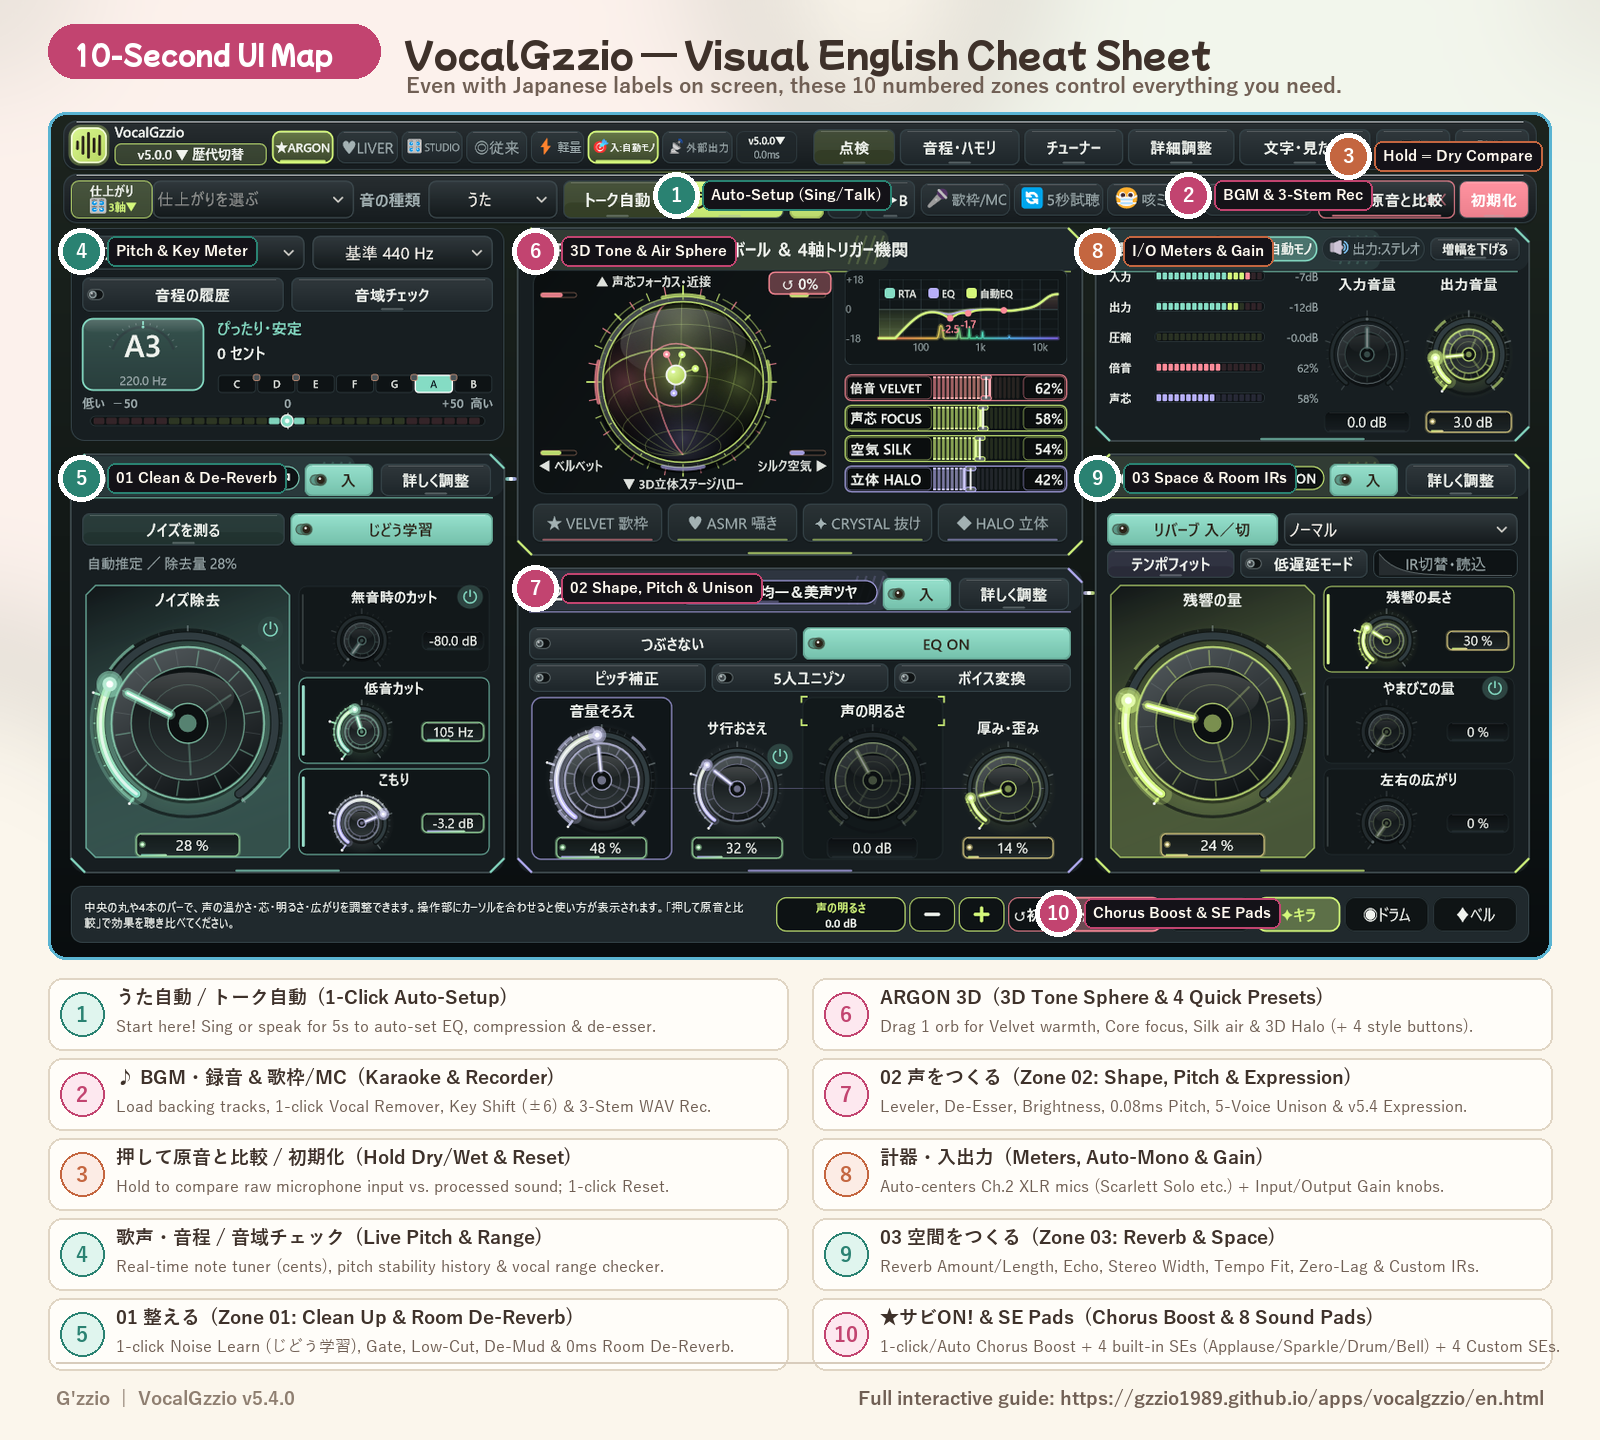
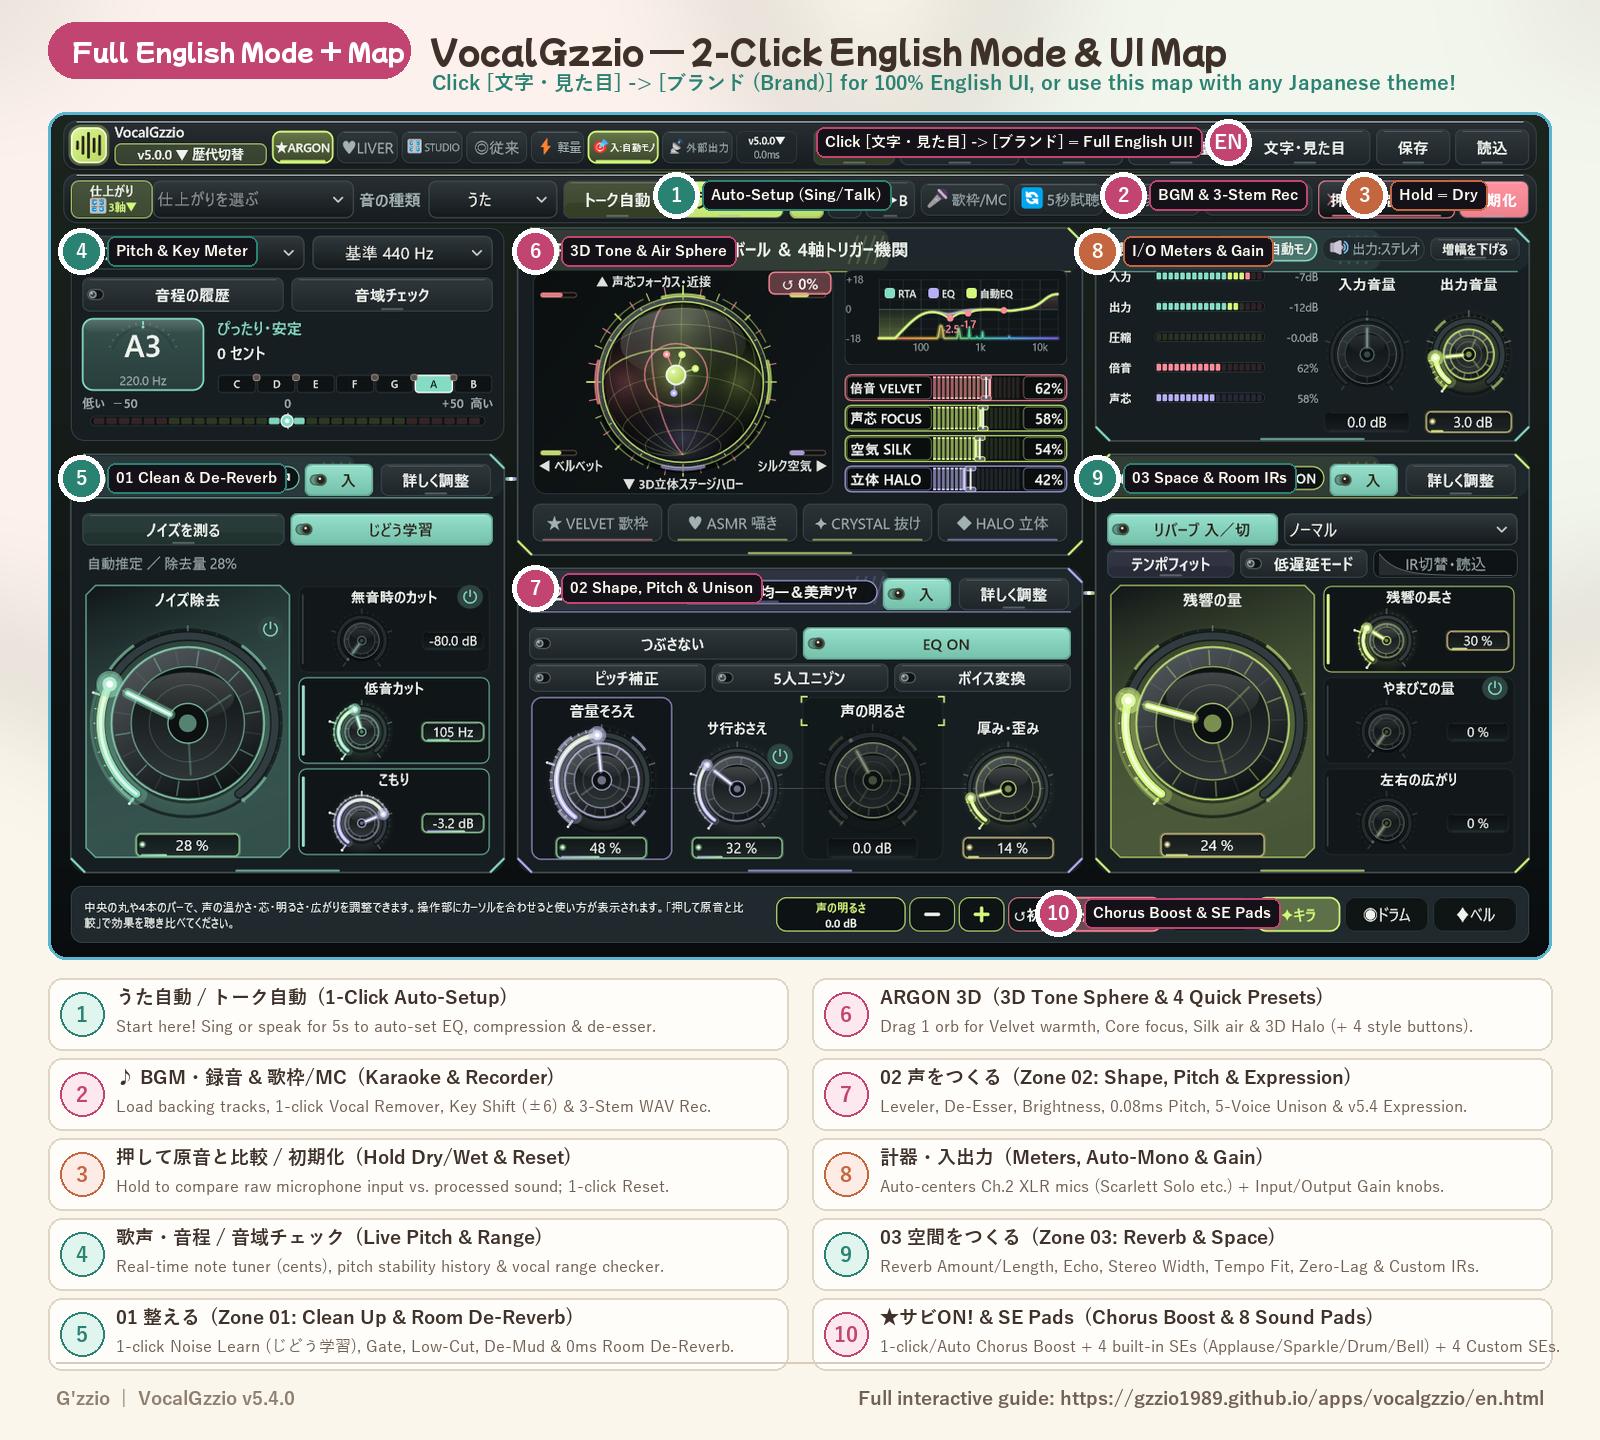
Highlight built-in 2-click 100% English UI mode on en.html and visual UI map

Changed region(s): [[0.0312, 0.0, 0.9688, 0.1562]]

diff --git a/apps/vocalgzzio/en.html b/apps/vocalgzzio/en.html
@@ -121,8 +121,8 @@
     </tbody>
   </table>
 
-  <h2 id="ui-guide">📖 10-Second Visual English UI Map &amp; Cheat Sheet</h2>
-  <p>VocalGzzio's interface is organized into simple numbered zones so you never get lost. Even where Japanese labels appear on screen, this visual map and cheat sheet give you full control in 10 seconds:</p>
+  <h2 id="ui-guide">📖 Built-In 100% English UI Mode &amp; 10-Second Visual Map</h2>
+  <p><strong>💡 Built-in 100% Full English UI Mode (2 Clicks!):</strong> Click <strong><code>文字・見た目</code></strong> (<em>Text &amp; Look</em>, top-right bar) and select <strong><code>ブランド</code></strong> (<em>Brand Mode</em>). Every button, knob label, 3-axis preset, zone header (<code>01 CLEAN</code> / <code>02 CHARACTER</code> / <code>03 SPACE</code>), and hover tooltip switches to <strong>100% English</strong>! Or, if you use any of the 19 cute pastel themes, this visual map and cheat sheet give you full control in 10 seconds:</p>
   <img src="assets/overview-en-map.png" width="1600" height="1440" alt="VocalGzzio 10-Second Visual English UI Cheat Sheet">
 
   <table>
@@ -134,6 +134,11 @@
       </tr>
     </thead>
     <tbody>
+      <tr>
+        <td><strong>文字・見た目</strong> &rarr; <strong>ブランド</strong></td>
+        <td><strong>Switch to 100% Full English UI Mode</strong></td>
+        <td><strong>2-Click English Toggle!</strong> Click <code>文字・見た目</code> at the top-right bar and select <code>ブランド</code> (Brand) to switch all buttons, knobs, 60 presets, and tooltips into 100% English.</td>
+      </tr>
       <tr>
         <td><strong>🎤 うた自動</strong> / <strong>💬 トーク自動</strong></td>
         <td><strong>Auto-Setup (Sing / Talk)</strong></td>
